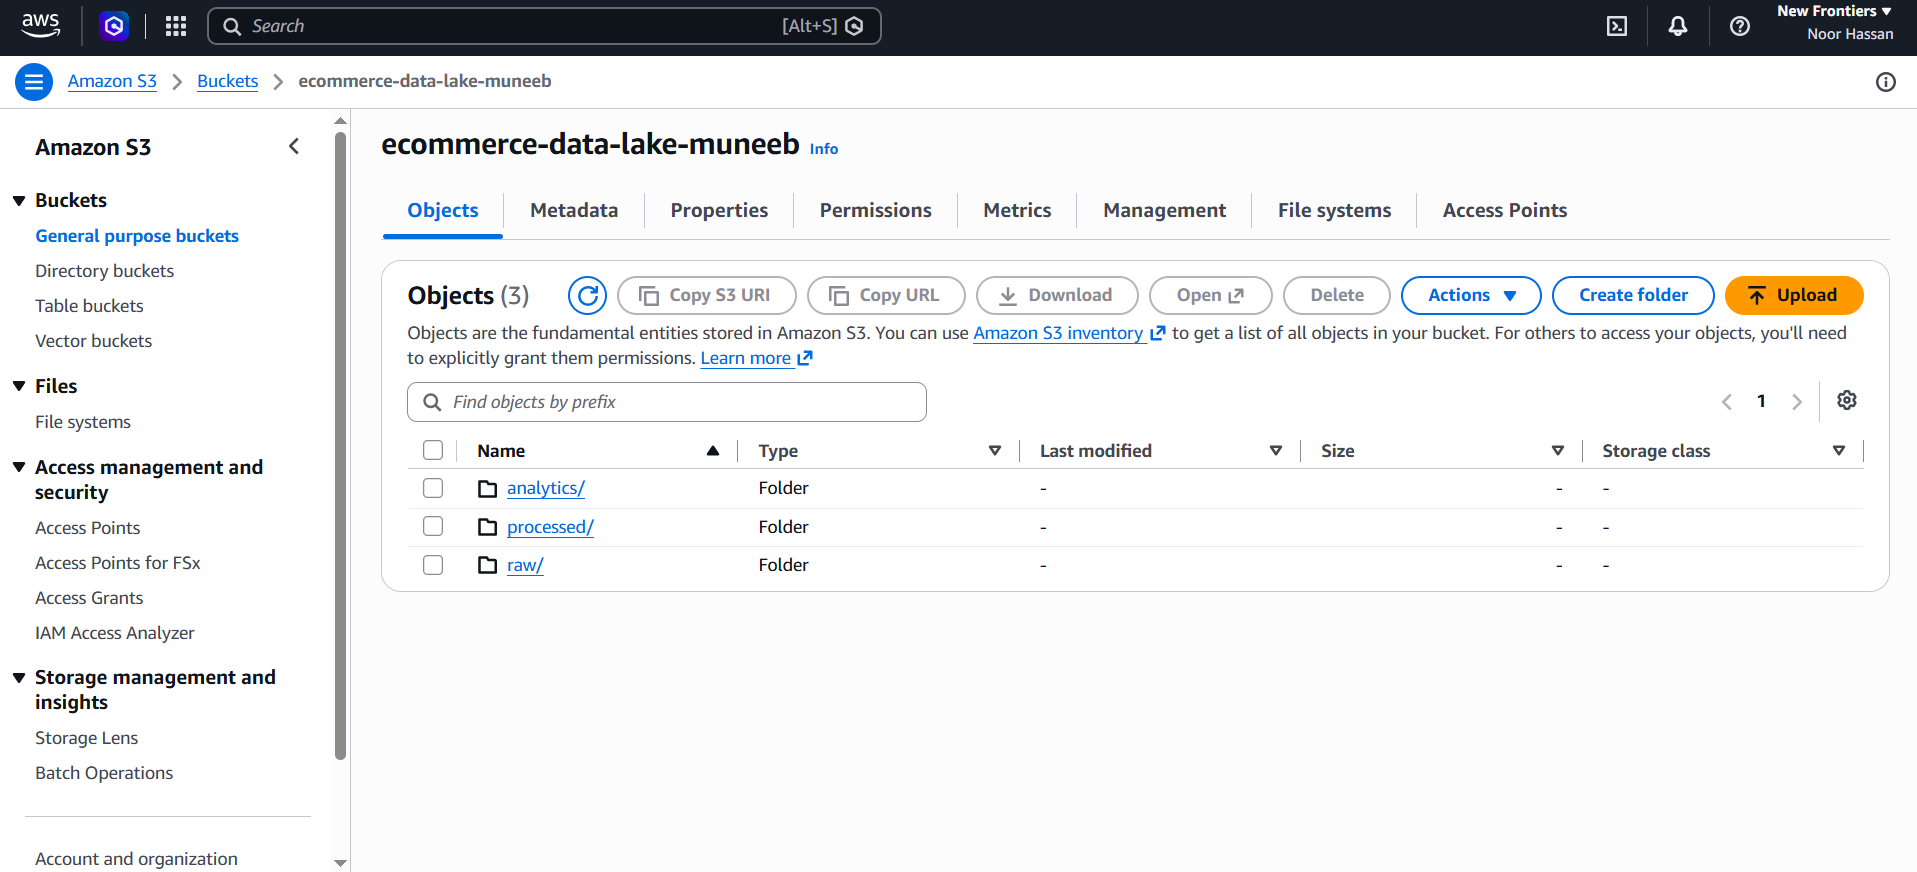
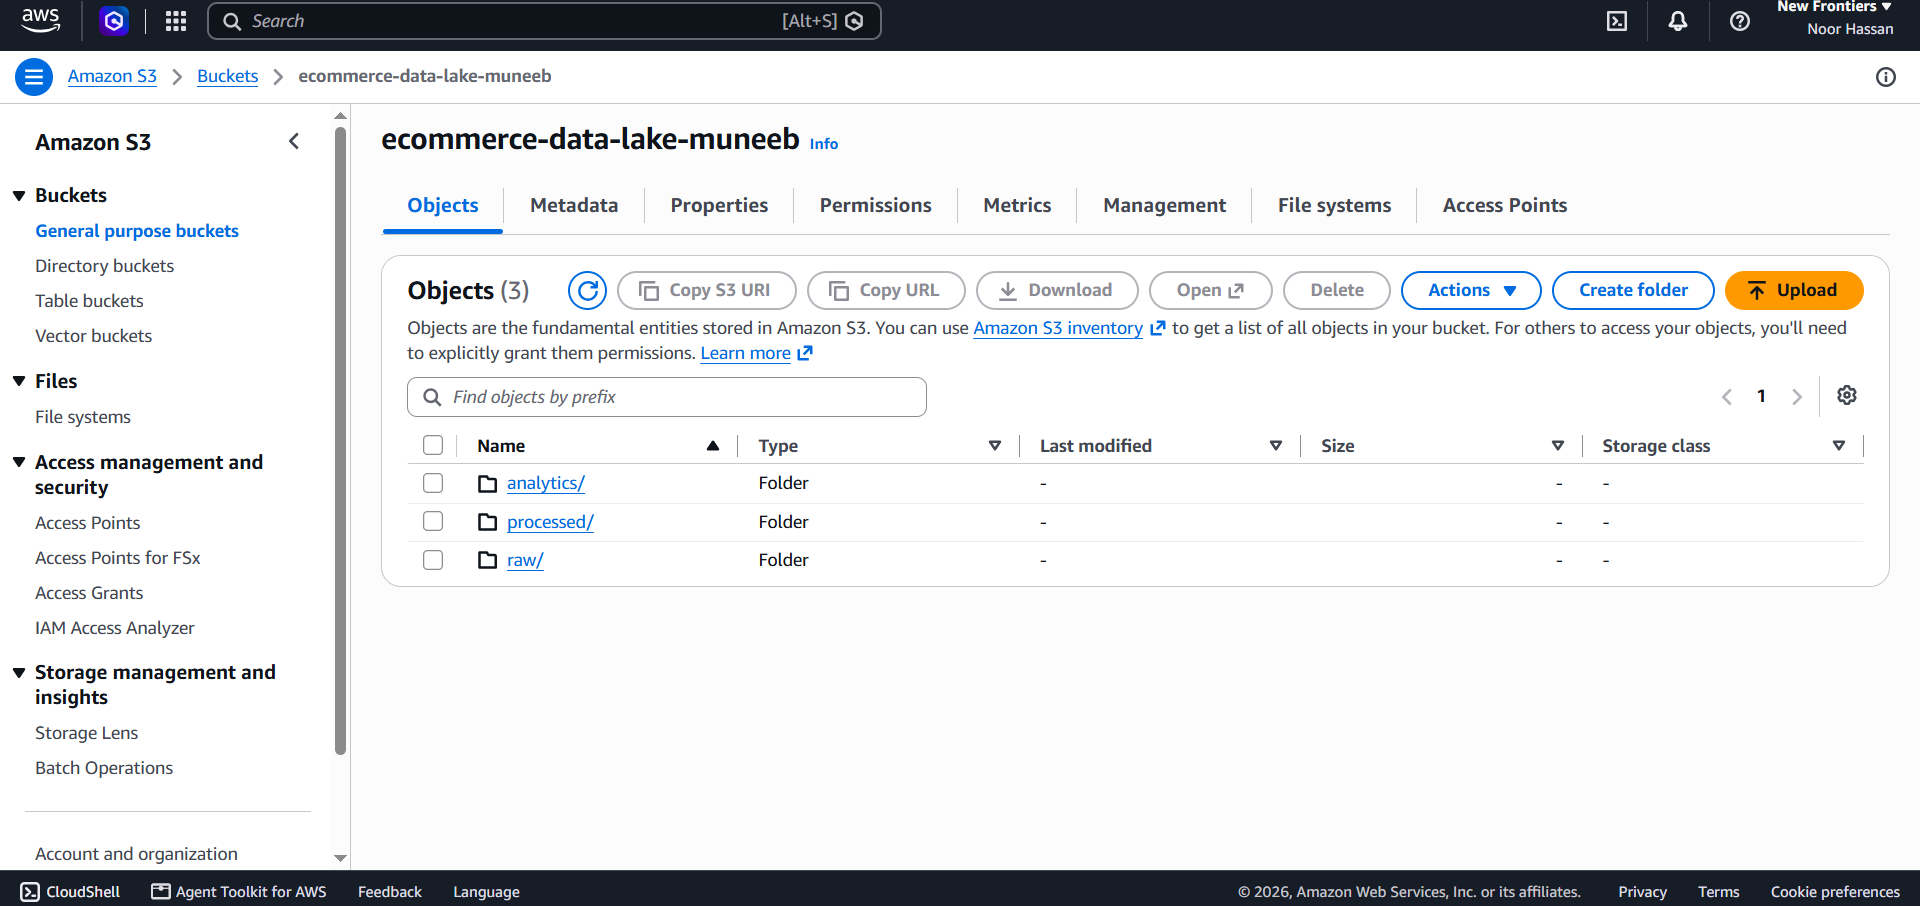
README: S3 Parquet export, 1M-row generator, PySpark analytics

diff --git a/README.md b/README.md
@@ -2,9 +2,9 @@
 
 ![CI](https://github.com/Muneeb0376/ecommerce-data-platform/actions/workflows/ci.yml/badge.svg)
 
-A production-style batch data pipeline for an e-commerce domain: it ingests product price updates (CSV) and currency exchange rates (API), validates and cleans them, loads the trusted rows into PostgreSQL, keeps every rejected row with a reason, and copies each run's data to an AWS S3 data lake. The pipeline is orchestrated by Apache Airflow and runs fully in Docker.
+A production-style batch data platform for an e-commerce domain. It ingests product price updates (CSV) and currency exchange rates (API), validates and cleans them, loads the trusted rows into PostgreSQL, keeps every rejected row with a reason, and copies each run's data to an AWS S3 data lake. The main database tables (users, orders, order items, events, ...) are exported to S3 as Parquet, and PySpark jobs turn them into analytics datasets. The pipeline is orchestrated by Apache Airflow and runs in Docker.
 
-**Stack:** Python · pandas · PostgreSQL 17 · Apache Airflow · AWS S3 (boto3) · Docker Compose · pytest · GitHub Actions
+**Stack:** Python · pandas · PostgreSQL 17 · Apache Airflow · AWS S3 (boto3) · Parquet (pyarrow) · PySpark · Docker Compose · pytest · GitHub Actions
 
 ## Architecture
 
@@ -17,8 +17,12 @@ FX rates API ───────┘      │          │         │      ├
                            │                            └─ etl_run_log (one row per run)
                            │
                            └─ issues reported         ─► Upload ─► AWS S3 data lake
-                                                                   ├─ raw/
-                                                                   └─ processed/
+                                                                   ├─ raw/        (CSV + Parquet table snapshots)
+PostgreSQL tables ─► Export (Parquet) ───────────────────────────► ├─ processed/
+(users, orders, order_items, events, ...)                          └─ analytics/  (PySpark output)
+                                                                         ▲
+                                                  PySpark (Docker) ──────┘
+                                                  reads raw/, writes analytics/
 
 Orchestration: Airflow DAG (scheduler + webserver, LocalExecutor)
 ```
@@ -31,6 +35,8 @@ Pipeline steps live in separate modules so each can be tested on its own:
 | Clean | `src/transformation/clean.py` | Normalises text, converts types, drops exact duplicates, splits rows into clean and rejected. |
 | Load | `src/loading/load.py` | Writes to PostgreSQL. Every function is idempotent. |
 | Upload | `src/loading/s3.py` | Writes the run's raw, clean, rejected and FX data to S3, partitioned by day and run. |
+| Export | `src/loading/export_to_s3.py` | Streams every main table from PostgreSQL to S3 as Parquet, in chunks. |
+| Spark jobs | `spark/jobs/` | `daily_sales.py` and `customer_metrics.py` build the analytics datasets. |
 
 ## Data quality and rejected rows
 
@@ -54,32 +60,69 @@ Re-running the pipeline never creates duplicates:
 - `fx_rates` and `product_price_history` use `INSERT ... ON CONFLICT DO UPDATE`.
 - `etl_run_log` uses `ON CONFLICT (run_id) DO UPDATE`.
 - `load_rejected` deletes the rejects of the same `run_id` and source before inserting, so an Airflow retry does not double the rows. Rejects of different runs are kept as history.
-- S3 keys contain the `run_id`, so uploading the same run again overwrites the same files.
+- S3 keys contain the `run_id`, so uploading or exporting the same run again overwrites the same files.
 
 ## Orchestration
 
-The Airflow DAG `ecommerce_etl` runs daily with retries and logging. It has six tasks:
+The Airflow DAG `ecommerce_etl` runs daily with retries and logging. It has seven tasks:
 
-`extract → validate → clean → load → upload_to_s3 → db_checks`
+`extract → validate → clean → load → upload_to_s3 → export_tables_to_s3 → db_checks`
 
 ![Airflow DAG](docs/images/airflow_dag.png)
 
 ## Data lake (AWS S3)
 
-Each run also writes its data to an S3 bucket, partitioned by day and by run:
+The bucket has three zones. Every run writes to its own `run_id`, partitioned by day:
 
 ```
 raw/price_updates/dt=YYYY-MM-DD/run_id=<id>/product_price_updates.csv
+raw/<table>/dt=YYYY-MM-DD/run_id=<id>/<table>.parquet          # users, orders, order_items, events, ...
 processed/price_updates/dt=YYYY-MM-DD/run_id=<id>/clean.csv
 processed/price_updates_rejected/dt=YYYY-MM-DD/run_id=<id>/rejected.csv
 processed/fx_rates/dt=YYYY-MM-DD/run_id=<id>/fx_rates.csv
+analytics/daily_sales/run_id=<id>/order_month=YYYY-MM/*.parquet
+analytics/customer_metrics/run_id=<id>/*.parquet
 ```
 
 - The `run_id` is the same one stored in `etl_run_log` and `etl_rejected_rows`, so any run can be traced from the database to its files in S3.
 - The bucket is private (public access blocked). Credentials are read from environment variables, never from code.
+- The IAM user has a least-privilege policy limited to this one bucket (list, get, put, delete objects).
 - `src/utils/s3_smoke_test.py` checks that the credentials can reach the bucket.
 
 ![S3 data lake](docs/images/s3_bucket.png)
+
+## Big data: 1 million orders
+
+`src/ingestion/generate_data.py` creates realistic fake data (users, sellers, products, orders, order items, payments, reviews, events). It loads big tables with `COPY` and builds orders in chunks, so memory stays small.
+
+```powershell
+# default size (5,000 orders)
+python -m src.ingestion.generate_data --reset
+
+# big data: 1M orders, ~2.5M order items, 3M events
+python -m src.ingestion.generate_data --reset --users 100000 --sellers 500 --products 5000 --orders 1000000 --reviews 300000 --events 3000000
+```
+
+The export step reads each table with a server-side cursor in chunks of 100,000 rows and writes one Parquet file per table (the largest, `events.parquet`, is about 66 MB).
+
+## PySpark analytics
+
+Two Spark jobs read the newest raw snapshot from S3 and write Parquet to the `analytics/` zone:
+
+| Job | Output |
+|-----|--------|
+| `daily_sales.py` | Per day: orders, valid orders, cancelled/returned, revenue, units sold, average order value. Partitioned by month. |
+| `customer_metrics.py` | Per customer: orders, spend, first/last order, average order value, repeat-customer flag. |
+
+Revenue counts only `delivered`, `shipped` and `paid` orders. Spark runs in its own Docker image (Java and the S3 connector are inside it), so nothing has to be installed on the host:
+
+```powershell
+docker compose -f docker-compose.spark.yml build
+docker compose -f docker-compose.spark.yml run --rm spark /opt/spark/bin/spark-submit --driver-memory 2g /opt/project/spark/jobs/daily_sales.py
+docker compose -f docker-compose.spark.yml run --rm spark /opt/spark/bin/spark-submit --driver-memory 2g /opt/project/spark/jobs/customer_metrics.py
+```
+
+![S3 analytics zone](docs/images/s3_analytics.png)
 
 ## Project structure
 
@@ -87,24 +130,27 @@ processed/fx_rates/dt=YYYY-MM-DD/run_id=<id>/fx_rates.csv
 ecommerce-data-platform/
 ├── airflow/dags/          # Airflow DAG definitions
 ├── docker/airflow/        # Airflow image (Dockerfile)
+├── docker/spark/          # Spark image (Dockerfile, includes S3 connector jars)
+├── spark/jobs/            # PySpark jobs: common.py, daily_sales.py, customer_metrics.py
 ├── sql/                   # Schema and ETL table scripts (run on first DB start)
 ├── src/
-│   ├── ingestion/         # CSV and API readers
+│   ├── ingestion/         # CSV and API readers, data generator
 │   ├── transformation/    # validate.py, clean.py
-│   ├── loading/           # load.py (PostgreSQL), s3.py (S3 data lake)
+│   ├── loading/           # load.py (PostgreSQL), s3.py, export_to_s3.py
 │   └── utils/             # DB connection, S3 smoke test
 ├── tests/                 # pytest unit tests
 ├── docs/images/           # README screenshots
 ├── data/                  # Local input data
 ├── .github/workflows/     # CI (GitHub Actions)
-├── docker-compose.yml
+├── docker-compose.yml         # PostgreSQL + Airflow
+├── docker-compose.spark.yml   # Spark jobs
 ├── .env.example
 └── requirements.txt
 ```
 
 ## Getting started
 
-**Requirements:** Docker Desktop, Python 3.12+, Git, and an AWS account with an S3 bucket and an IAM user (for the S3 step).
+**Requirements:** Docker Desktop, Python 3.12+, Git, and an AWS account with an S3 bucket and an IAM user (for the S3 steps).
 
 ```powershell
 git clone https://github.com/Muneeb0376/ecommerce-data-platform.git
@@ -127,6 +173,8 @@ Open the Airflow UI, enable the DAG and click **Trigger DAG**. To check the S3 c
 ```powershell
 python src/utils/s3_smoke_test.py
 ```
+
+To export the tables to S3 without Airflow: `python -m src.loading.export_to_s3`.
 
 ## Running the tests
 
@@ -162,14 +210,17 @@ LIMIT 5;
 
 ## Security
 
-Secrets (database passwords, Airflow secret key, AWS access keys) are read from environment variables. `.env` is git-ignored and only `.env.example` with placeholders is committed. The IAM user used by the pipeline is separate from the AWS root account.
+Secrets (database passwords, Airflow secret key, AWS access keys) are read from environment variables. `.env` is git-ignored and only `.env.example` with placeholders is committed. The IAM user used by the pipeline is separate from the AWS root account and can only access the data-lake bucket.
 
 ## Roadmap
 
 - [x] Python + PostgreSQL + ETL with data-quality checks
 - [x] Airflow orchestration in Docker
 - [x] Unit tests and CI (GitHub Actions)
-- [x] AWS S3 data lake (raw / processed)
-- [ ] PySpark processing
+- [x] AWS S3 data lake (raw / processed / analytics)
+- [x] Database tables exported to S3 as Parquet
+- [x] Data generator scaled to 1M orders
+- [x] PySpark jobs (daily_sales, customer_metrics)
+- [ ] Spark jobs triggered from Airflow
 - [ ] Data warehouse (star schema) and Power BI dashboards
 - [ ] Kafka and Spark Streaming for real-time events
